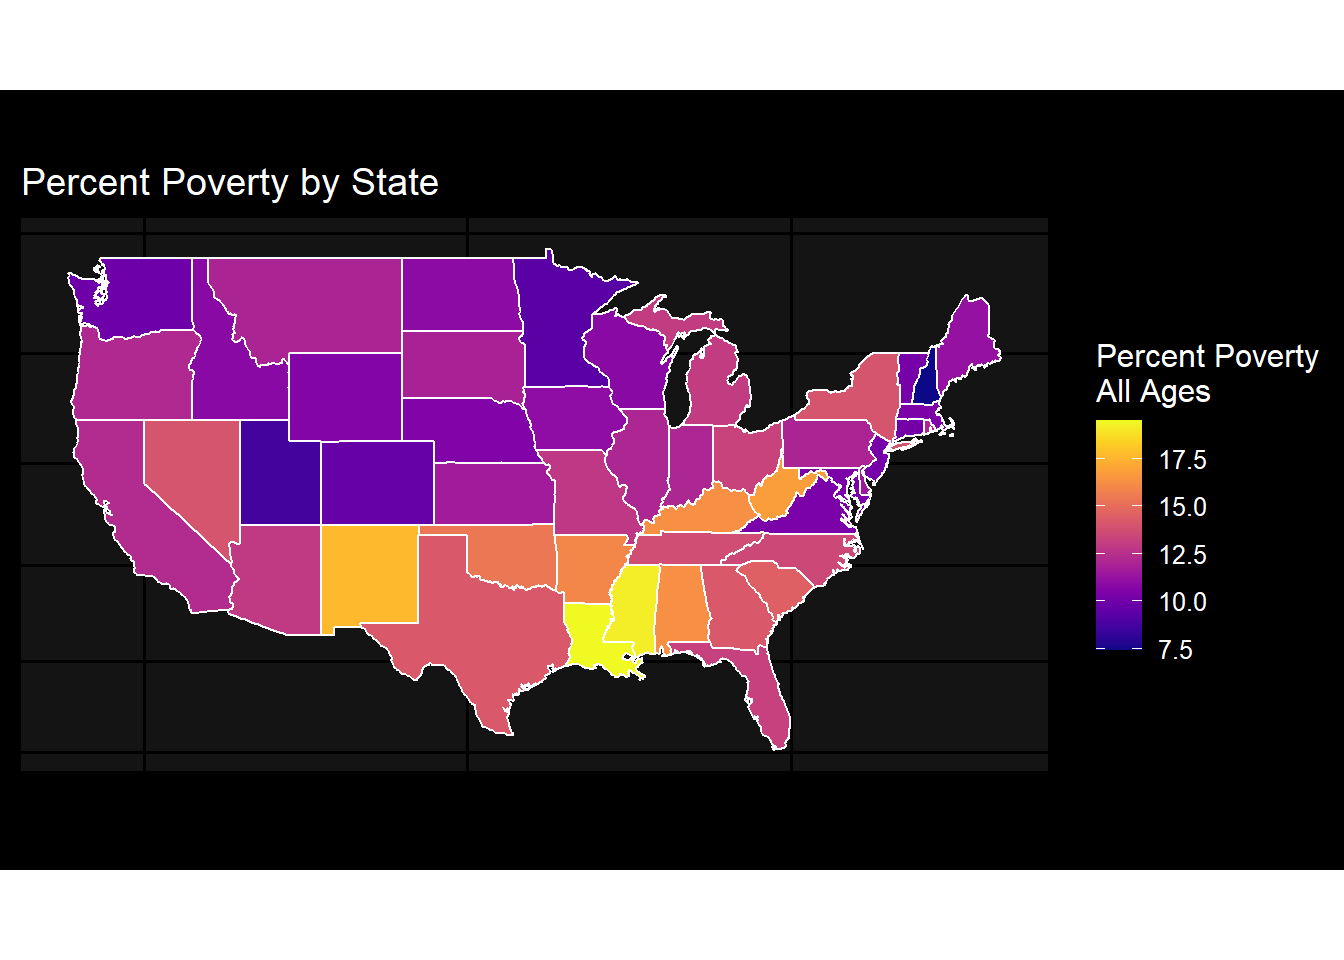
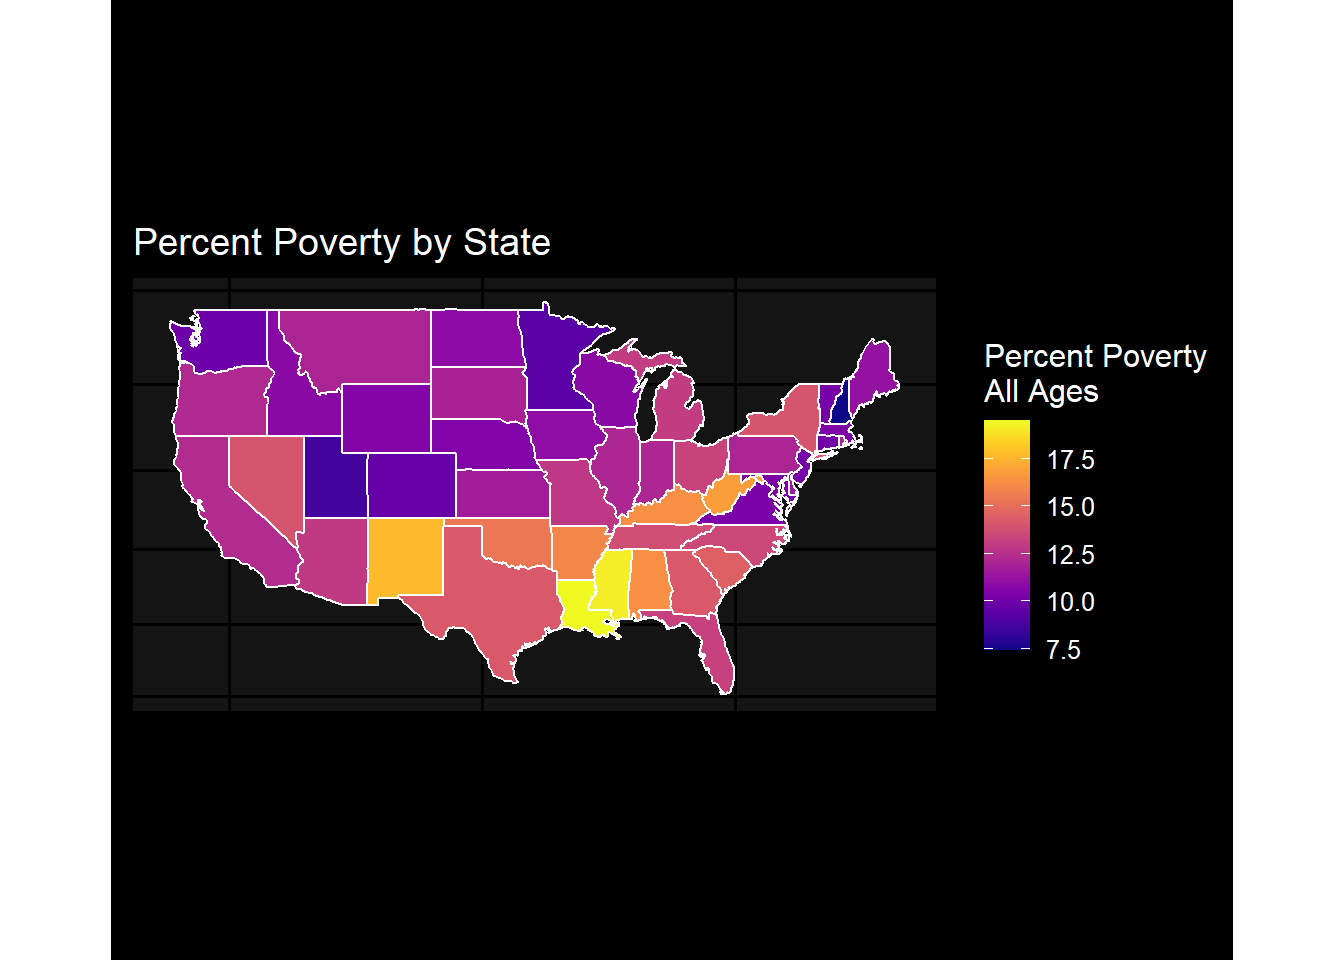
changed theme

diff --git a/docs/pages/maps/us_states.html b/docs/pages/maps/us_states.html
@@ -237,7 +237,7 @@ pre > code.sourceCode > span > a:first-child::before { text-decoration: underlin
 <span id="cb2-13"><a href="#cb2-13" aria-hidden="true" tabindex="-1"></a>  <span class="fu">theme</span>(</span>
 <span id="cb2-14"><a href="#cb2-14" aria-hidden="true" tabindex="-1"></a>        <span class="at">axis.ticks =</span> <span class="fu">element_blank</span>(), </span>
 <span id="cb2-15"><a href="#cb2-15" aria-hidden="true" tabindex="-1"></a>        <span class="at">axis.text =</span> <span class="fu">element_blank</span>(), </span>
-<span id="cb2-16"><a href="#cb2-16" aria-hidden="true" tabindex="-1"></a>        <span class="at">plot.margin =</span> <span class="fu">unit</span>(<span class="fu">c</span>(<span class="dv">1</span>, <span class="dv">0</span>, <span class="dv">1</span>, <span class="dv">0</span>), <span class="st">"cm"</span>))</span></code><button title="Copy to Clipboard" class="code-copy-button"><i class="bi"></i></button></pre></div>
+<span id="cb2-16"><a href="#cb2-16" aria-hidden="true" tabindex="-1"></a>        <span class="at">plot.margin =</span> <span class="fu">unit</span>(<span class="fu">c</span>(<span class="dv">3</span>, <span class="dv">0</span>, <span class="dv">3</span>, <span class="dv">0</span>), <span class="st">"cm"</span>))</span></code><button title="Copy to Clipboard" class="code-copy-button"><i class="bi"></i></button></pre></div>
 <div class="cell-output-display">
 <div>
 <figure class="figure">
@@ -260,7 +260,7 @@ pre > code.sourceCode > span > a:first-child::before { text-decoration: underlin
 <span id="cb3-13"><a href="#cb3-13" aria-hidden="true" tabindex="-1"></a>  <span class="fu">theme</span>(</span>
 <span id="cb3-14"><a href="#cb3-14" aria-hidden="true" tabindex="-1"></a>        <span class="at">axis.ticks =</span> <span class="fu">element_blank</span>(), </span>
 <span id="cb3-15"><a href="#cb3-15" aria-hidden="true" tabindex="-1"></a>        <span class="at">axis.text =</span> <span class="fu">element_blank</span>(), </span>
-<span id="cb3-16"><a href="#cb3-16" aria-hidden="true" tabindex="-1"></a>        <span class="at">plot.margin =</span> <span class="fu">unit</span>(<span class="fu">c</span>(<span class="dv">1</span>, <span class="dv">0</span>, <span class="dv">1</span>, <span class="dv">0</span>), <span class="st">"cm"</span>))</span></code><button title="Copy to Clipboard" class="code-copy-button"><i class="bi"></i></button></pre></div>
+<span id="cb3-16"><a href="#cb3-16" aria-hidden="true" tabindex="-1"></a>        <span class="at">plot.margin =</span> <span class="fu">unit</span>(<span class="fu">c</span>(<span class="dv">3</span>, <span class="dv">0</span>, <span class="dv">3</span>, <span class="dv">0</span>), <span class="st">"cm"</span>))</span></code><button title="Copy to Clipboard" class="code-copy-button"><i class="bi"></i></button></pre></div>
 <div class="cell-output-display">
 <div>
 <figure class="figure">
@@ -283,7 +283,7 @@ pre > code.sourceCode > span > a:first-child::before { text-decoration: underlin
 <span id="cb4-13"><a href="#cb4-13" aria-hidden="true" tabindex="-1"></a>  <span class="fu">theme</span>(</span>
 <span id="cb4-14"><a href="#cb4-14" aria-hidden="true" tabindex="-1"></a>        <span class="at">axis.ticks =</span> <span class="fu">element_blank</span>(), </span>
 <span id="cb4-15"><a href="#cb4-15" aria-hidden="true" tabindex="-1"></a>        <span class="at">axis.text =</span> <span class="fu">element_blank</span>(), </span>
-<span id="cb4-16"><a href="#cb4-16" aria-hidden="true" tabindex="-1"></a>        <span class="at">plot.margin =</span> <span class="fu">unit</span>(<span class="fu">c</span>(<span class="dv">1</span>, <span class="dv">0</span>, <span class="dv">1</span>, <span class="dv">0</span>), <span class="st">"cm"</span>))</span></code><button title="Copy to Clipboard" class="code-copy-button"><i class="bi"></i></button></pre></div>
+<span id="cb4-16"><a href="#cb4-16" aria-hidden="true" tabindex="-1"></a>        <span class="at">plot.margin =</span> <span class="fu">unit</span>(<span class="fu">c</span>(<span class="dv">3</span>, <span class="dv">0</span>, <span class="dv">3</span>, <span class="dv">0</span>), <span class="st">"cm"</span>))</span></code><button title="Copy to Clipboard" class="code-copy-button"><i class="bi"></i></button></pre></div>
 <div class="cell-output-display">
 <div>
 <figure class="figure">
